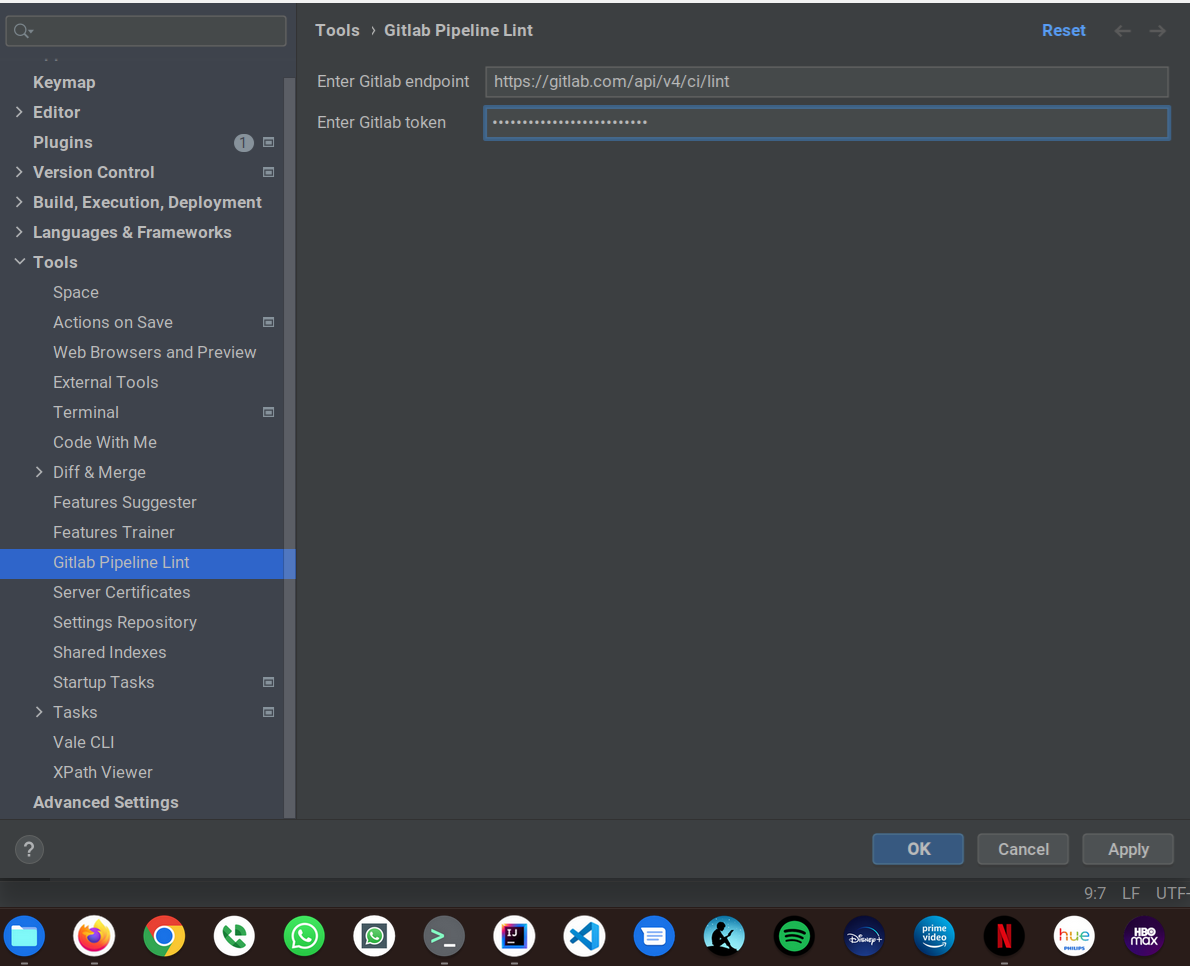
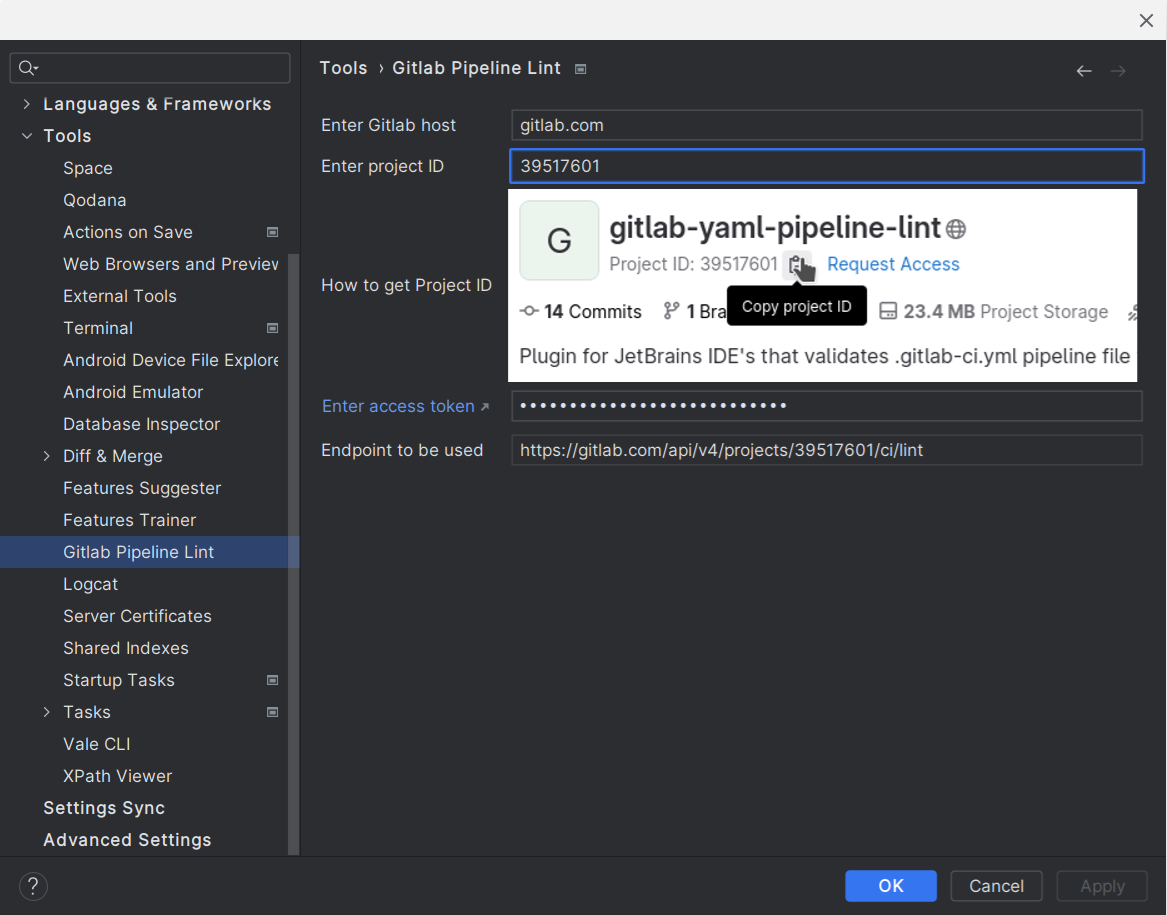
Adjust to use new pipeline lint endpoint per project

diff --git a/src/main/java/org/ideplugins/gitlab_pipeline_lint/actions/ActionHelper.java b/src/main/java/org/ideplugins/gitlab_pipeline_lint/actions/ActionHelper.java
@@ -25,8 +25,9 @@ import org.ideplugins.gitlab_pipeline_lint.settings.YamlPipelineLintSettingsStat
 import org.jetbrains.annotations.NotNull;
 import org.jetbrains.annotations.Nullable;
 
+import java.net.HttpURLConnection;
 import java.util.HashSet;
-import java.util.Objects;
+import java.util.Optional;
 import java.util.Set;
 
 import static com.intellij.execution.ui.ConsoleViewContentType.ERROR_OUTPUT;
@@ -90,8 +91,12 @@ public final class ActionHelper implements Constants {
     }
 
     public static String getGitlabToken() {
-        Credentials credentials = PasswordSafe.getInstance().get(CREDENTIAL_ATTRIBUTES);
-        return Objects.requireNonNull(credentials).getPasswordAsString();
+        String token = "";
+        Optional<Credentials> credentials = Optional.ofNullable(PasswordSafe.getInstance().get(CREDENTIAL_ATTRIBUTES));
+        if (credentials.isPresent()){
+            token = credentials.get().getPasswordAsString();
+        }
+        return token;
     }
 
     public static String getGitlabUrl() {
@@ -102,28 +107,29 @@ public final class ActionHelper implements Constants {
 
     public static void showLintResult(final JsonObject gitlabResponse, final AnActionEvent actionEvent) {
         JsonObject result = gitlabResponse.getAsJsonObject(GITLAB_RESPONSE_BODY);
+        String gitlabHost = ApplicationManager.getApplication().getService(YamlPipelineLintSettingsState.class)
+                .gitlabHost;
         switch (gitlabResponse.get(GITLAB_RESPONSE_STATUS).getAsInt()) {
-            case 200:
-                if (    result.has("status")
-                        && "valid".equals(result.get("status").getAsString()) &&
+            case HttpURLConnection.HTTP_OK :
+                if (    result.has("valid")
+                        && result.get("valid").getAsBoolean() &&
                         result.get("warnings").getAsJsonArray().isEmpty()
                 ) {
 
                     String successMessage = "✅ Congratulations!! Pipeline yaml has no errors";
                     showResultsInConsole(actionEvent.getProject(), successMessage, LOG_INFO_OUTPUT);
-                } else if (result.has("status")
-                        && "valid".equals(result.get("status").getAsString()) &&
+                } else if (result.has("valid")
+                        && result.get("valid").getAsBoolean()  &&
                         result.get("warnings").getAsJsonArray().size() > 0){
 
                     showResultsInConsole(actionEvent, result, "warnings");
 
-                } else if (result.has("status")
-                        && "invalid".equals(result.get("status").getAsString())) {
+                } else if (result.has("valid")
+                        && !result.get("valid").getAsBoolean() ) {
                     showResultsInConsole(actionEvent, result, "warnings", "errors");
                 }
                 break;
-            case 401:
-                String gitlabHost = gitlabResponse.get("host").getAsString();
+            case HttpURLConnection.HTTP_UNAUTHORIZED:
                 showResultsInConsole(actionEvent.getProject(),
                         String.format("Unauthorized:, click the link in the notification to setup " +
                                 "a valid gitlab token for %s\n", gitlabHost) + result,
@@ -131,17 +137,28 @@ public final class ActionHelper implements Constants {
                 displayNotificationWithAction(NotificationType.ERROR,
                         String.format("Please configure a valid Gitlab token for %s", gitlabHost));
                 break;
-            case 408:
+            case HttpURLConnection.HTTP_NOT_FOUND:
                 showResultsInConsole(actionEvent.getProject(),
-                        String.format("Not able to reach gitlab at %s", gitlabResponse.get("host").getAsString())
+                        String.format("Project ID not found:\n" +
+                                "Please double check your project ID at %s, click the link in the notification to set it up \n", gitlabHost) + result,
+                        ERROR_OUTPUT);
+                displayNotificationWithAction(NotificationType.ERROR,
+                        String.format("Please configure Gitlab Project ID at %s", gitlabHost));
+                break;
+            case HttpURLConnection.HTTP_CLIENT_TIMEOUT:
+                showResultsInConsole(actionEvent.getProject(),
+                        String.format("Not able to reach gitlab at %s", gitlabHost)
                                 + "\nPlease check your network or verify the values on plugin settings \n" + result,
                         ERROR_OUTPUT);
                 displayNotificationWithAction(NotificationType.ERROR, "Double check gitlab host");
                 break;
             default:
-                displayNotification(NotificationType.ERROR,
-                        "ERROR posting yaml to gitlab lint api; please check plugin settings."
-                                + "\n Response status from gitlab: " + gitlabResponse.get(GITLAB_RESPONSE_STATUS).getAsInt()
+                showResultsInConsole(actionEvent.getProject(),
+                        String.format("ERROR using gitlab lint api at %s", gitlabHost)
+                                + "\nplease check plugin settings \n" + result,
+                        ERROR_OUTPUT);
+                displayNotificationWithAction(NotificationType.ERROR,
+                        "ERROR using gitlab lint api; please check plugin settings."
                                 + "\n Response body: \n" + result
                 );
 

diff --git a/src/main/java/org/ideplugins/gitlab_pipeline_lint/settings/YamlPipelineLintSettingsComponent.java b/src/main/java/org/ideplugins/gitlab_pipeline_lint/settings/YamlPipelineLintSettingsComponent.java
@@ -1,30 +1,78 @@
 package org.ideplugins.gitlab_pipeline_lint.settings;
 
-import com.intellij.ui.components.JBLabel;
-import com.intellij.ui.components.JBPasswordField;
-import com.intellij.ui.components.JBTextField;
+
+import com.intellij.ui.DocumentAdapter;
+import com.intellij.ui.components.*;
 import com.intellij.util.ui.FormBuilder;
+import org.apache.commons.lang.StringUtils;
+import org.ideplugins.gitlab_pipeline_lint.linter.Constants;
 import org.jetbrains.annotations.NotNull;
 
 import javax.swing.*;
+import javax.swing.event.DocumentEvent;
+import javax.swing.event.DocumentListener;
+
+import static org.ideplugins.gitlab_pipeline_lint.linter.Constants.GITLAB_HOST;
 
 public class YamlPipelineLintSettingsComponent {
 
     private final JPanel myMainPanel;
     private final JBTextField gitlabEndpoint = new JBTextField();
 
+    private final JBTextField gitlabHost = new JBTextField();
+
     private final JBPasswordField gitLabToken = new JBPasswordField();
 
+    private final JBTextField gitlabProjectID = new JBTextField();
+    private final DocumentListener changeListener = createFieldsListener();
+
+
+    private DocumentListener createFieldsListener() {
+        return new DocumentAdapter() {
+            @Override
+            protected void textChanged(@NotNull DocumentEvent e) {
+                if (StringUtils.isNumeric(gitlabProjectID.getText())){
+                    gitlabEndpoint.setText(String.format(Constants.GITLAB_URL, gitlabHost.getText(), gitlabProjectID.getText()));
+                }
+            }
+        };
+    }
+
+
+
+    @NotNull
+    private JBLabel createProjectIDScreenshot() {
+        JBLabel screenshot = new JBLabel();
+        screenshot.setIcon(Constants.gitlabProjectIdScreenshot);
+        return screenshot;
+    }
+
     public YamlPipelineLintSettingsComponent() {
+        JBLabel screenshot = createProjectIDScreenshot();
+        setChangeListeners();
+        BrowserLink tokenLink = new BrowserLink("Enter access token", String.format("https://%s/-/profile/personal_access_tokens",
+                GITLAB_HOST));
         myMainPanel = FormBuilder.createFormBuilder()
-                .addLabeledComponent(new JBLabel("Enter Gitlab endpoint"), gitlabEndpoint, 1, false)
-                .addLabeledComponent(new JBLabel("Enter Gitlab token"), gitLabToken, 2, false)
+                .addLabeledComponent(new JBLabel("Enter Gitlab host"), gitlabHost, 1, false)
+                .addLabeledComponent(new JBLabel("Enter project ID"), gitlabProjectID, 2, false)
+                .addLabeledComponent("How to get Project ID", screenshot,3,false)
+                .addLabeledComponent(tokenLink, gitLabToken, 4, false)
+                .addLabeledComponent(new JBLabel("Endpoint to be used"), gitlabEndpoint, 5, false)
                 .addComponentFillVertically(new JPanel(), 0)
                 .getPanel();
+
+        myMainPanel.setToolTipText("To get the gitlab Project ID\n, go to your repository and click the copy button in the screenshot.");
+    }
+
+    private void setChangeListeners() {
+        gitlabEndpoint.setEditable(false);
+        gitlabProjectID.getDocument().addDocumentListener(changeListener);
+        gitlabHost.getDocument().addDocumentListener(changeListener);
+        gitlabProjectID.setToolTipText("To get the gitlab Project ID\n, go to your repository and click the copy button in the screenshot.");
     }
 
     public JComponent getPreferredFocusedComponent() {
-        return gitlabEndpoint;
+        return gitlabHost;
     }
 
     public JPanel getPanel() {
@@ -49,4 +97,19 @@ public class YamlPipelineLintSettingsComponent {
         return new String(gitLabToken.getPassword());
     }
 
+    public String getGitlabProjectID() {
+        return gitlabProjectID.getText();
+    }
+
+    public void setGitlabProjectID(@NotNull String newText) {
+        gitlabProjectID.setText(newText);
+    }
+
+    public void setGitlabHost(String host) {
+        gitlabHost.setText(host);
+    }
+
+    public String getGitlabHost() {
+        return gitlabHost.getText();
+    }
 }

diff --git a/src/main/java/org/ideplugins/gitlab_pipeline_lint/settings/YamlPipelineLintSettingsConfigurable.java b/src/main/java/org/ideplugins/gitlab_pipeline_lint/settings/YamlPipelineLintSettingsConfigurable.java
@@ -5,6 +5,7 @@ import com.intellij.ide.passwordSafe.PasswordSafe;
 import com.intellij.openapi.application.ApplicationManager;
 import com.intellij.openapi.options.Configurable;
 import com.intellij.openapi.options.ConfigurationException;
+import org.ideplugins.gitlab_pipeline_lint.actions.ActionHelper;
 import org.ideplugins.gitlab_pipeline_lint.linter.Constants;
 import org.jetbrains.annotations.Nullable;
 
@@ -16,7 +17,7 @@ public class YamlPipelineLintSettingsConfigurable implements Configurable, Const
 
     @Override
     public String getDisplayName() {
-        return "Gitlab-CI Pipeline Lint";
+        return "Gitlab Pipeline Lint";
     }
 
     @Override
@@ -26,26 +27,35 @@ public class YamlPipelineLintSettingsConfigurable implements Configurable, Const
     }
 
     @Override
+    public @Nullable JComponent getPreferredFocusedComponent() {
+        return settingsComponent.getPreferredFocusedComponent();
+    }
+
+    @Override
     public boolean isModified() {
         YamlPipelineLintSettingsState settingsState = ApplicationManager.getApplication().getService(YamlPipelineLintSettingsState.class);
         boolean endpointModified = !settingsComponent.getGitlabEndpoint().equals(settingsState.gitlabEndpoint);
+        boolean hostModified = !settingsComponent.getGitlabHost().equals(settingsState.gitlabHost);
         boolean tokenModified = !settingsComponent.getGitlabToken().equals(settingsState.gitlabToken);
-        return endpointModified || tokenModified;
+        return endpointModified || tokenModified || hostModified;
     }
 
     @Override
     public void apply() throws ConfigurationException {
         YamlPipelineLintSettingsState settingsState = ApplicationManager.getApplication().getService(YamlPipelineLintSettingsState.class);
-        settingsState.gitlabToken = "*".repeat(25);
         Credentials credentials = new Credentials("", settingsComponent.getGitlabToken());
         PasswordSafe.getInstance().set(CREDENTIAL_ATTRIBUTES, credentials);
+        settingsState.gitlabHost = settingsComponent.getGitlabHost();
         settingsState.gitlabEndpoint = settingsComponent.getGitlabEndpoint();
+        settingsState.gitlabProjectID = settingsComponent.getGitlabProjectID();
     }
 
     @Override
     public void reset() {
         YamlPipelineLintSettingsState settingsState = ApplicationManager.getApplication().getService(YamlPipelineLintSettingsState.class);
         settingsComponent.setGitlabEndpoint(settingsState.gitlabEndpoint);
-        settingsComponent.setGitlabToken(settingsState.gitlabToken);
+        settingsComponent.setGitlabToken(ActionHelper.getGitlabToken());
+        settingsComponent.setGitlabProjectID(settingsState.gitlabProjectID);
+        settingsComponent.setGitlabHost(settingsState.gitlabHost);
     }
 }

diff --git a/src/main/java/org/ideplugins/gitlab_pipeline_lint/actions/LintYamlToolsMenuAction.java b/src/main/java/org/ideplugins/gitlab_pipeline_lint/actions/LintYamlToolsMenuAction.java
@@ -15,7 +15,10 @@ import org.ideplugins.gitlab_pipeline_lint.linter.YamlPipelineLinter;
 import org.ideplugins.gitlab_pipeline_lint.service.PipelineIssuesReporter;
 import org.jetbrains.annotations.NotNull;
 
-import java.util.*;
+import java.util.ArrayList;
+import java.util.List;
+import java.util.Map;
+import java.util.Optional;
 
 import static org.ideplugins.gitlab_pipeline_lint.actions.ActionHelper.*;
 
@@ -29,9 +32,11 @@ public class LintYamlToolsMenuAction extends AnAction implements Constants {
 
     @Override
     public void actionPerformed(@NotNull AnActionEvent event) {
-        if (checkGitlabToken()) {
+        String gitlabCILintEndpoint = getGitlabUrl();
+        Optional<Project> optionalProject = Optional.ofNullable(event.getProject());
+        if (checkGitlabToken() && !gitlabCILintEndpoint.contains("%")) {
             Optional.ofNullable(event.getProject()).ifPresent(project -> {
-                GlobalSearchScope scope = GlobalSearchScope.projectScope(Objects.requireNonNull(event.getProject()));
+                GlobalSearchScope scope = GlobalSearchScope.projectScope(project);
                 List<VirtualFile> files = new ArrayList<>(FilenameIndex.getVirtualFilesByName(GITLAB_CI_YML, scope));
 
                 if (files.size() == 0) {
@@ -48,7 +53,7 @@ public class LintYamlToolsMenuAction extends AnAction implements Constants {
                     JsonObject yamlJson = ActionHelper.getYamlJson(psiFile);
                     ApplicationManager.getApplication().invokeLater(() -> {
                         YamlPipelineLinter linter =
-                                new YamlPipelineLinter(ActionHelper.getGitlabUrl(), ActionHelper.getGitlabToken());
+                                new YamlPipelineLinter(gitlabCILintEndpoint, ActionHelper.getGitlabToken());
                         JsonObject gitlabResponse = linter.ciLint(yamlJson);
                         showLintResult(gitlabResponse, event);
                         PipelineIssuesReporter reporter = project.getService(PipelineIssuesReporter.class);
@@ -58,7 +63,7 @@ public class LintYamlToolsMenuAction extends AnAction implements Constants {
 
             });
         } else {
-            displayNotificationWithAction(NotificationType.WARNING, "Please setup your Gitlab token");
+            displayNotificationWithAction(NotificationType.WARNING, "Please setup your Gitlab token/Project ID");
         }
     }
 

diff --git a/src/main/java/org/ideplugins/gitlab_pipeline_lint/actions/LintYamlPopupAction.java b/src/main/java/org/ideplugins/gitlab_pipeline_lint/actions/LintYamlPopupAction.java
@@ -28,14 +28,15 @@ public class LintYamlPopupAction extends AnAction implements Constants {
 
     @Override
     public void actionPerformed(@NotNull AnActionEvent event) {
-        if (checkGitlabToken()) {
+        String gitlabCILintEndpoint = getGitlabUrl();
+        if (checkGitlabToken() && !gitlabCILintEndpoint.contains("%")) {
             Optional.ofNullable(event.getProject()).ifPresent(project -> {
                 PsiFile psiFile = event.getData(CommonDataKeys.PSI_FILE);
                 if (psiFile != null) {
                     JsonObject yamlJson = ActionHelper.getYamlJson(psiFile);
                     ApplicationManager.getApplication().invokeLater(() -> {
                         YamlPipelineLinter linter =
-                                new YamlPipelineLinter(ActionHelper.getGitlabUrl(), ActionHelper.getGitlabToken());
+                                new YamlPipelineLinter(gitlabCILintEndpoint, ActionHelper.getGitlabToken());
                         JsonObject gitlabResponse = linter.ciLint(yamlJson);
                         showLintResult(gitlabResponse, event);
 
@@ -46,7 +47,7 @@ public class LintYamlPopupAction extends AnAction implements Constants {
                 }
             });
         } else {
-            displayNotificationWithAction(NotificationType.WARNING, "Please setup your Gitlab token");
+            displayNotificationWithAction(NotificationType.WARNING, "Please setup your Gitlab token/Project ID");
         }
     }
 }

diff --git a/src/main/java/org/ideplugins/gitlab_pipeline_lint/settings/YamlPipelineLintSettingsState.java b/src/main/java/org/ideplugins/gitlab_pipeline_lint/settings/YamlPipelineLintSettingsState.java
@@ -5,9 +5,13 @@ import com.intellij.openapi.components.Service;
 import com.intellij.openapi.components.State;
 import com.intellij.openapi.components.Storage;
 import com.intellij.util.xmlb.XmlSerializerUtil;
+import com.intellij.util.xmlb.annotations.Transient;
 import org.ideplugins.gitlab_pipeline_lint.linter.Constants;
 import org.jetbrains.annotations.NotNull;
 import org.jetbrains.annotations.Nullable;
+
+import static org.ideplugins.gitlab_pipeline_lint.actions.ActionHelper.getGitlabToken;
+import static org.ideplugins.gitlab_pipeline_lint.linter.Constants.GITLAB_HOST;
 
 @Service(Service.Level.PROJECT)
 @State(
@@ -16,8 +20,12 @@ import org.jetbrains.annotations.Nullable;
 )
 public class YamlPipelineLintSettingsState implements PersistentStateComponent<YamlPipelineLintSettingsState> {
 
-    public String gitlabToken = "";
-    public String gitlabEndpoint = Constants.GITLAB_URL;
+    @Transient
+    public String gitlabToken = getGitlabToken();
+    public String gitlabEndpoint = String.format(Constants.GITLAB_URL, GITLAB_HOST, "%s");
+    public String gitlabHost = GITLAB_HOST;
+
+    public String gitlabProjectID = "";
 
 
     @Override

diff --git a/src/main/java/org/ideplugins/gitlab_pipeline_lint/linter/Constants.java b/src/main/java/org/ideplugins/gitlab_pipeline_lint/linter/Constants.java
@@ -2,9 +2,13 @@ package org.ideplugins.gitlab_pipeline_lint.linter;
 
 import com.intellij.credentialStore.CredentialAttributes;
 import com.intellij.credentialStore.CredentialAttributesKt;
+import com.intellij.openapi.util.IconLoader;
+
+import javax.swing.*;
 
 public interface Constants {
-    String GITLAB_URL = "https://gitlab.com/api/v4/ci/lint";
+    String GITLAB_URL = "https://%s/api/v4/projects/%s/ci/lint";
+    String GITLAB_HOST = "gitlab.com";
     String NOTIFICATION_TITLE = "Gitlab Pipeline Lint";
     String GROUP_DISPLAY_ID = "org.ideplugins.pipeline-lint";
     String GITLAB_CI_YML = ".gitlab-ci.yml";
@@ -15,4 +19,6 @@ public interface Constants {
     CredentialAttributes CREDENTIAL_ATTRIBUTES = new CredentialAttributes(
             CredentialAttributesKt.generateServiceName("ci-pipeline-lint", "gitlab-token")
     );
+
+    Icon gitlabProjectIdScreenshot = IconLoader.getIcon("/icons/gitlabProjectID.png", Constants.class);
 }

diff --git a/src/main/java/org/ideplugins/gitlab_pipeline_lint/linter/YamlPipelineLinter.java b/src/main/java/org/ideplugins/gitlab_pipeline_lint/linter/YamlPipelineLinter.java
@@ -39,7 +39,6 @@ public class YamlPipelineLinter implements Constants {
         JsonObject jsonObject = new JsonObject();
         Request request = createPostRequest(yamlJson);
         String host = request.url().host();
-        jsonObject.addProperty("host", host);
         try (Response response = client.newCall(request).execute()) {
             Optional<ResponseBody> body = Optional.ofNullable(response.body());
             if (body.isPresent()){

diff --git a/src/test/java/org/ideplugins/gitlab_pipeline_lint/linter/YamlPipelineLinterTest.java b/src/test/java/org/ideplugins/gitlab_pipeline_lint/linter/YamlPipelineLinterTest.java
@@ -46,7 +46,6 @@ class YamlPipelineLinterTest implements Constants {
                 new YamlPipelineLinter(mockWebServer.url("/").toString(), "", 500);
         JsonObject result = linterWithTimeout.ciLint(contentJson);
         assertEquals(HttpStatus.SC_REQUEST_TIMEOUT, result.get(GITLAB_RESPONSE_STATUS).getAsInt());
-        assertEquals(result.get("host").getAsString(), mockWebServer.getHostName());
     }
 
     @Test
